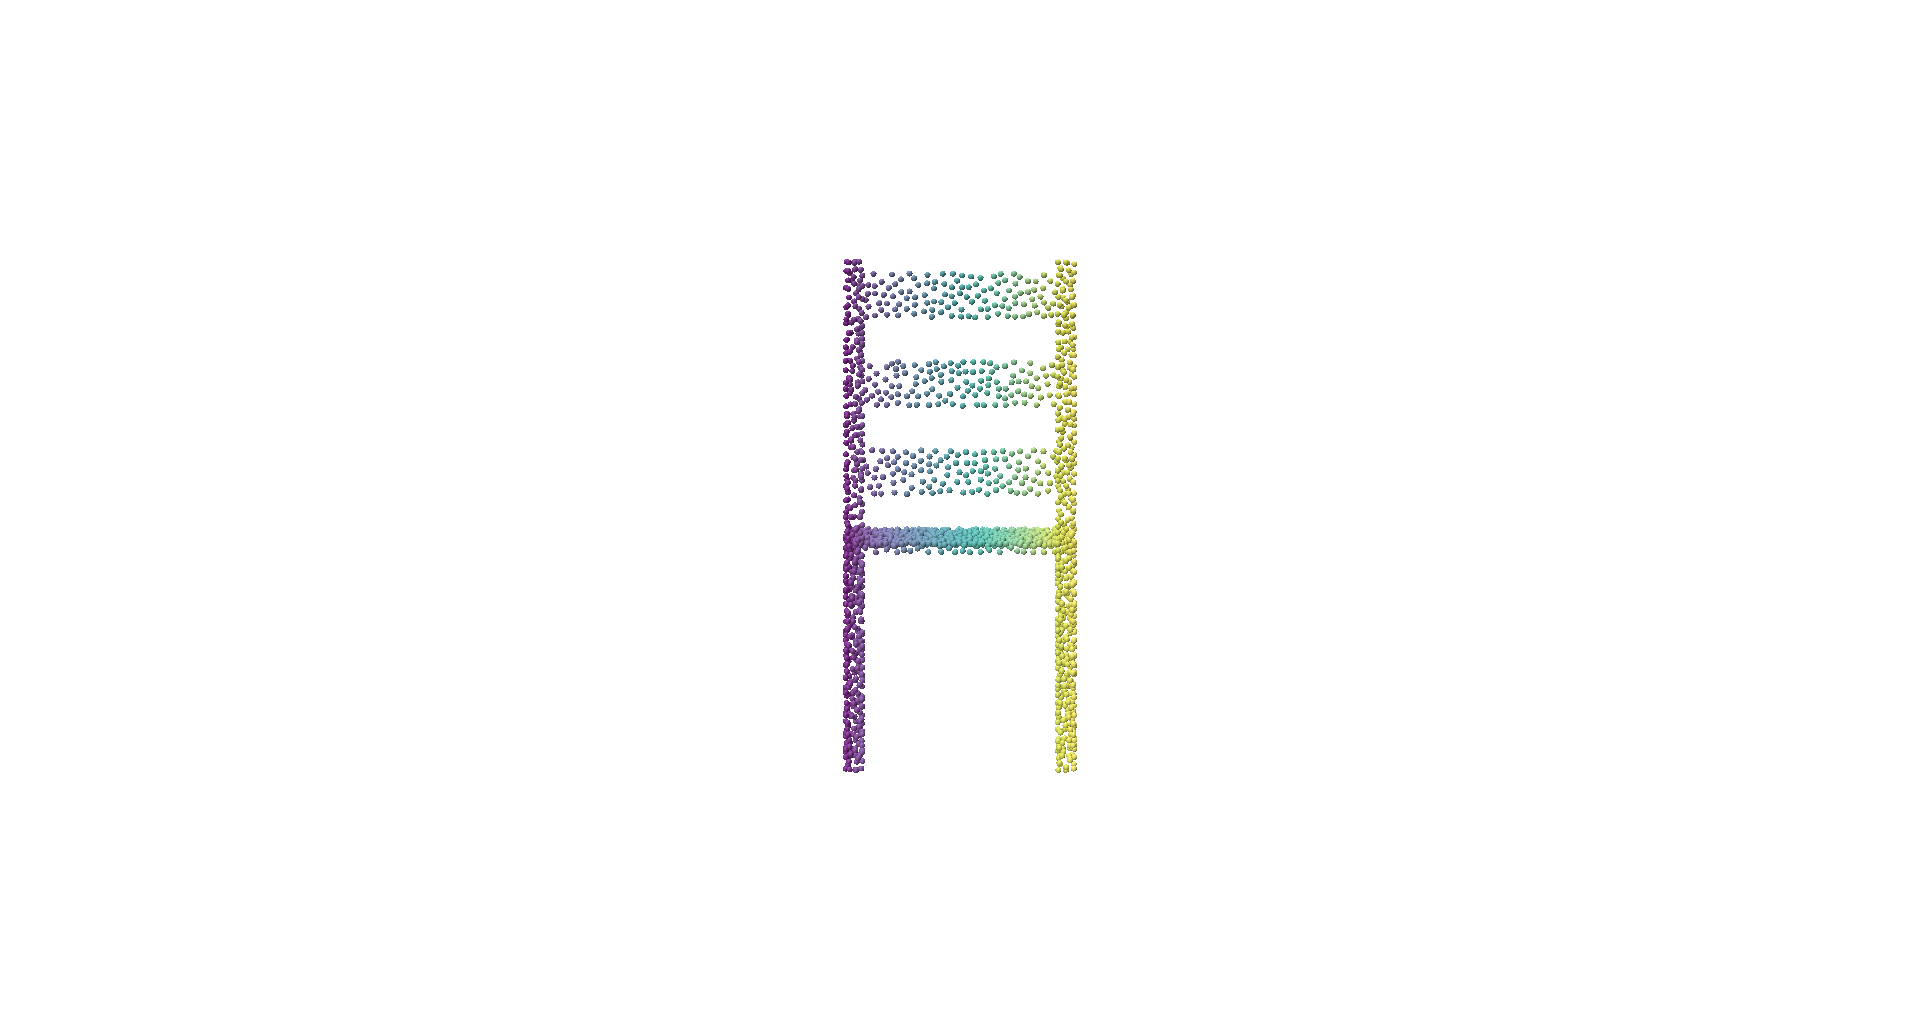
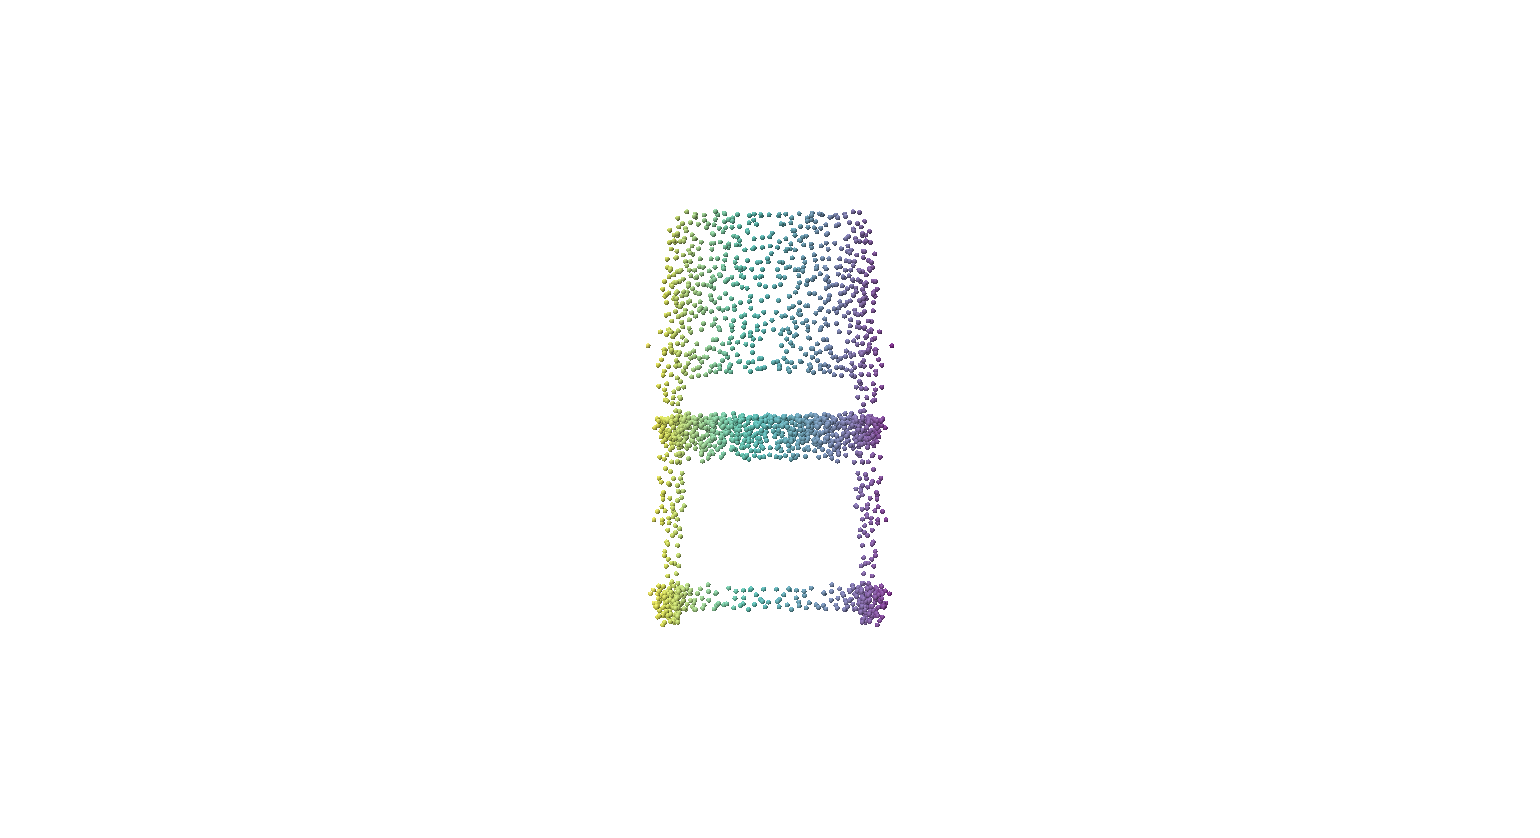
Added script to visualize npz files

Changed region(s): [[0.4052, 0.2482, 0.5922, 0.7757]]

diff --git a/Visualization/PTH_ScreenShots_npy.py b/Visualization/PTH_ScreenShots_npy.py
@@ -1,0 +1,86 @@
+import polyscope as ps
+import numpy as np
+import argparse
+import open3d as o3d
+import torch
+import random
+import os
+
+def farthest_point_sampling(points, n_samples):
+    pcd = o3d.geometry.PointCloud()
+    pcd.points = o3d.utility.Vector3dVector(points)
+    downpcd_farthest = pcd.farthest_point_down_sample(n_samples)
+    return np.asarray(downpcd_farthest.points)
+
+# --- Argumentos ---
+parser = argparse.ArgumentParser(description="Renderizar nubes de puntos a imágenes")
+parser.add_argument("file", type=str, help="Ruta al archivo .pth")
+parser.add_argument("out_dir", type=str, help="Carpeta de salida para los renders")
+parser.add_argument("clase", type=str, help="clase")
+parser.add_argument("--num_images", type=int, default=10, help="Cantidad de imágenes a guardar")
+parser.add_argument("--samples", type=int, default=2048, help="Puntos tras FPS")
+
+args = parser.parse_args()
+
+# Crear carpeta de salida si no existe
+os.makedirs(args.out_dir, exist_ok=True)
+
+# --- Carga de Datos ---
+data = torch.load(args.file)
+if isinstance(data, dict):
+    all_points = data.get('points', None)
+    if torch.is_tensor(all_points):
+        all_points = all_points.cpu().numpy()
+else:
+    all_points = data.cpu().numpy() if torch.is_tensor(data) else np.array(data)
+
+num_total = all_points.shape[0]
+print(f"Total disponible: {num_total}. Generando {args.num_images} renders...")
+
+# --- Inicializar Polyscope ---
+ps.init()
+ps.set_view_projection_mode("orthographic")
+ps.set_ground_plane_mode("none")
+ps.set_screenshot_extension(".png")
+
+# Selección aleatoria de índices
+indices = random.sample(range(num_total), min(args.num_images, num_total))
+
+# Lógica de orientación basada en el nombre del archivo
+is_chair = "chair" in args.file.lower()
+if is_chair:
+    ps.set_up_dir("y_up")
+    ps.set_front_dir("neg_z_front")
+else:
+    ps.set_up_dir("neg_z_up")
+    ps.set_front_dir("y_front")
+
+# --- Bucle de Renderizado ---
+for i, idx in enumerate(indices):
+    points = all_points[idx]
+    
+    # Limpiar la escena anterior
+    ps.remove_all_structures()
+    
+    # FPS
+    if points.shape[0] > args.samples:
+        points = farthest_point_sampling(points, n_samples=args.samples)
+    
+    # Registrar nube
+    pc = ps.register_point_cloud(f"render_{idx}", points)
+    
+    # Configurar look similar a tu imagen (Gradiente en X)
+    pc.add_scalar_quantity("X_Grad", points[:, 0], enabled=True, cmap='viridis')
+    
+    # Guardar imagen
+    save_path = os.path.join(args.out_dir, f"{args.clase}_cloud_{idx:04d}.png")
+    
+    ps.frame_tick()
+
+    # Renderizar un frame y guardar
+    ps.screenshot(save_path, transparent_bg=True)
+    
+    print(f"[{i+1}/{args.num_images}] Guardado: {save_path}")
+
+print("\nProceso finalizado con éxito.")
+

diff --git a/Visualization/Visualization_npz.py b/Visualization/Visualization_npz.py
@@ -1,0 +1,50 @@
+import numpy as np
+import matplotlib.pyplot as plt
+from matplotlib.animation import FuncAnimation
+import polyscope as ps
+
+# =====================
+# PUT YOUR FILE NAME
+# =====================
+#input_file = "/home/ncaytuir/data/Datasets/shapenet_psr/shapenet_psr/02691156/1a04e3eab45ca15dd86060f189eb133/pointcloud.npz"
+#input_file = "/home/ncaytuir/data/gca_necs/data/shapenet_sdf/chair/train/1a6f615e8b1b5ae4dbbc9440457e303e.npz"
+input_file = "/home/ncaytuir/data/Datasets/Scripts.v5/noises/latent_noise_98.npz"
+NPZ_FILE = input_file
+
+# ---------------------
+# Load file
+# ---------------------
+data = np.load(NPZ_FILE)
+print("\nAvailable keys in npz file:")
+for k in data.files:
+    print(f"  {k}: shape = {data[k].shape}")
+
+#print("points", data['points'])
+#print("normals", data['normals'])
+#print("loc", data['loc'])
+#print("scale", data['scale'])
+
+points = data['coord']
+#features = data["feat"] 
+#normals = data['normals']
+
+# Init polyscope
+ps.init()
+
+# Polyscope set-ups
+ps.set_up_dir("neg_z_up")            # -Z Up
+ps.set_front_dir("y_front")          # Y Front
+ps.set_view_projection_mode("orthographic")
+ps.set_screenshot_extension(".png") 
+ps.set_ground_plane_mode("none")  # Desactiva la cuadrícula/base
+
+# - Original
+pc_original = ps.register_point_cloud("pc Original", points)
+pc_original.set_color((0,0,1))
+
+#pc_original.add_scalar_quantity("X", features, enabled=True) # points[:, 0]
+
+#pc_original.add_vector_quantity("Normals", normals, enabled=True, length=0.02, radius=0.001)
+
+# Visualize
+ps.show()

diff --git a/Visualization/Visxpcs.py b/Visualization/Visxpcs.py
@@ -3,18 +3,18 @@ import numpy as np
 import argparse
 
 # Dir path
-file1 = "/home/ncaytuir/data/Datasets/Resultados_LION/Airplane/complete_point_clouds/pc_113.npy"
-file2 = "/home/ncaytuir/data/Datasets/Resultados_LION/Airplane/complete_point_clouds/pc_256.npy"
-file3 = "/home/ncaytuir/data/Datasets/Resultados_LION/Airplane/complete_point_clouds/pc_351.npy"
+file1 = "/home/ncaytuir/LION_necs/MyScripts/latent_results/original_pc_2.npy"
+file2 = "/home/ncaytuir/LION_necs/MyScripts/latent_results/mirrored_pc_2.npy"
+#file3 = "/home/ncaytuir/data/Datasets/Resultados_LION/Airplane/complete_point_clouds/pc_351.npy"
 
 # Load point cloud
 points1 = np.load(file1)
 points2 = np.load(file2)
-points3 = np.load(file3)
+#points3 = np.load(file3)
 
-offset = np.array([8.0, 0.0, 0.0])
+offset = np.array([0.1, 0.0, 0.0])
 points2 += offset
-points3 += offset * 2
+#points3 += offset * 2
 
 # Init polyscope
 ps.init()
@@ -35,8 +35,8 @@ pc_original1.set_color((0,0,1))
 pc_original2 = ps.register_point_cloud("pc Original 2", points2)
 pc_original2.set_color((0,0,1))
 
-pc_original3 = ps.register_point_cloud("pc Original 3", points3)
-pc_original3.set_color((0,0,1))
+#pc_original3 = ps.register_point_cloud("pc Original 3", points3)
+#pc_original3.set_color((0,0,1))
 
 # Agregar flechas desde puntos originales hacia reflejados
 #vectors = points2 - points
@@ -44,7 +44,7 @@ pc_original3.set_color((0,0,1))
 
 pc_original1.add_scalar_quantity("X", points1[:, 0], enabled=True)
 pc_original2.add_scalar_quantity("X", points2[:, 0], enabled=True)
-pc_original3.add_scalar_quantity("X", points3[:, 0], enabled=True)
+#pc_original3.add_scalar_quantity("X", points3[:, 0], enabled=True)
 
 # - Reflected
 #pc_reflejado = ps.register_point_cloud("pc reflejado", points)

diff --git a/Visualization/Visualization_npy.py b/Visualization/Visualization_npy.py
@@ -30,7 +30,9 @@ points = np.load(file)
 #print(points.keys())
 print(points)
 print(points.shape)
-
+print("Mean:",points.mean(axis=0))
+print("STD:",points.std())
+#quit()
 # Init polyscope
 ps.init()
 

diff --git a/Visualization/Visualization_pkl.py b/Visualization/Visualization_pkl.py
@@ -20,7 +20,7 @@ def farthest_point_sampling(points, n_samples):
 
 # Cargar el .pkl
 data = torch.load(
-    "/home/ncaytuir/data/Datasets/Resultados_XCube/OverHalf/plane_2025-12-19_13-22-18/result_dict_5.pkl",
+    "/home/ncaytuir/data/Datasets/Resultados_XCube/Airplane/result_dict_6.pkl",
     map_location="cpu"
 )
 

diff --git a/Visualization/Visualization_xyz.py b/Visualization/Visualization_xyz.py
@@ -2,7 +2,7 @@ import numpy as np
 import polyscope as ps
 
 # Leer archivo .xyz con 6 columnas: x y z r g b
-data = np.loadtxt("/home/ncaytuir/self-sample/demo-results/airplane/targets/export_iter:10000.xyz")
+data = np.loadtxt("/home/ncaytuir/data/Datasets/Resultados_SLIDE/NewExp_ArchitectureAssessing/over_original_dataset/airplane/shapenet_psr_generated_data_2048_pts_visualization/pcd_000_label_00_airplane.xyz")
 
 positions = data[:, :3]
 normals = data[:, 3:6]